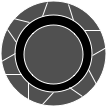
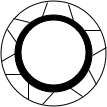
Fixed FileNames and Added Kings

diff --git a/checkers.css b/checkers.css
@@ -53,11 +53,11 @@ h1{
 
 .whitePiece {
 	/*background-color: #FFFFFF;*/
-	background-image: url("images/redPiece.png");
+	background-image: url("images/whitePiece.png");
 }
 
 .redPiece {
 	/*background-color: red;*/
-	background-image: url("images/whitePiece.png");
+	background-image: url("images/blackPiece.png");
 
 }
